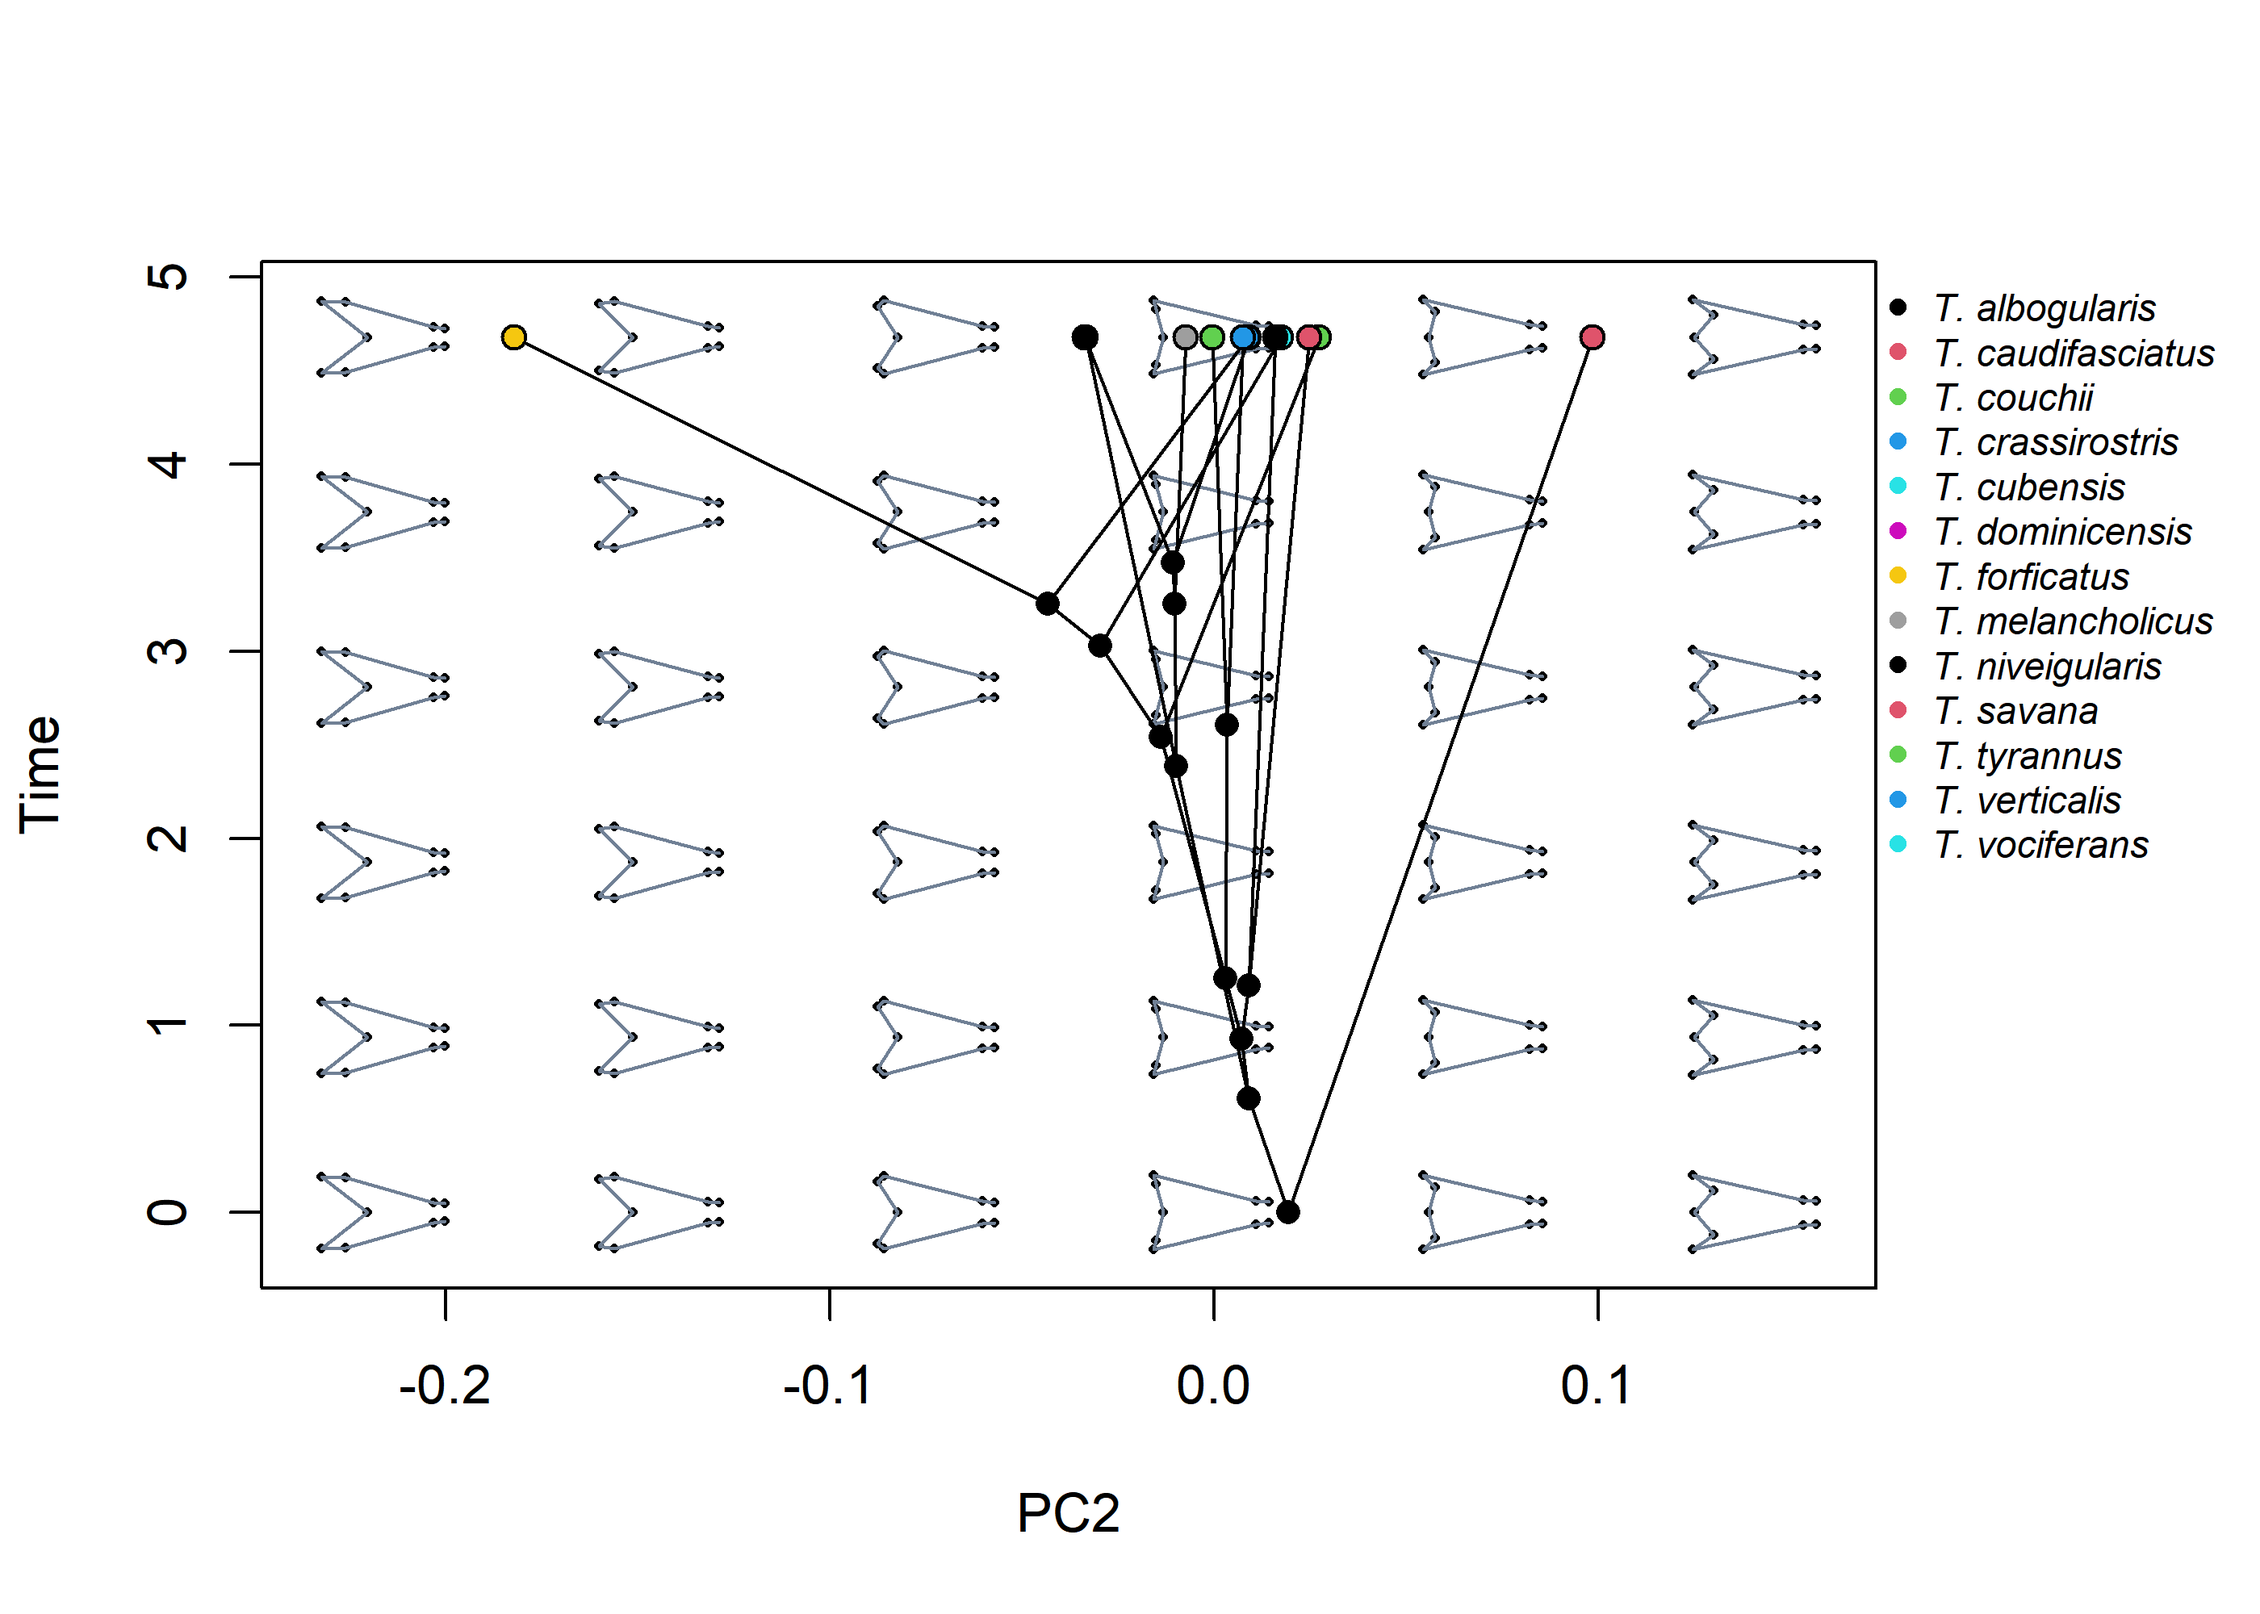
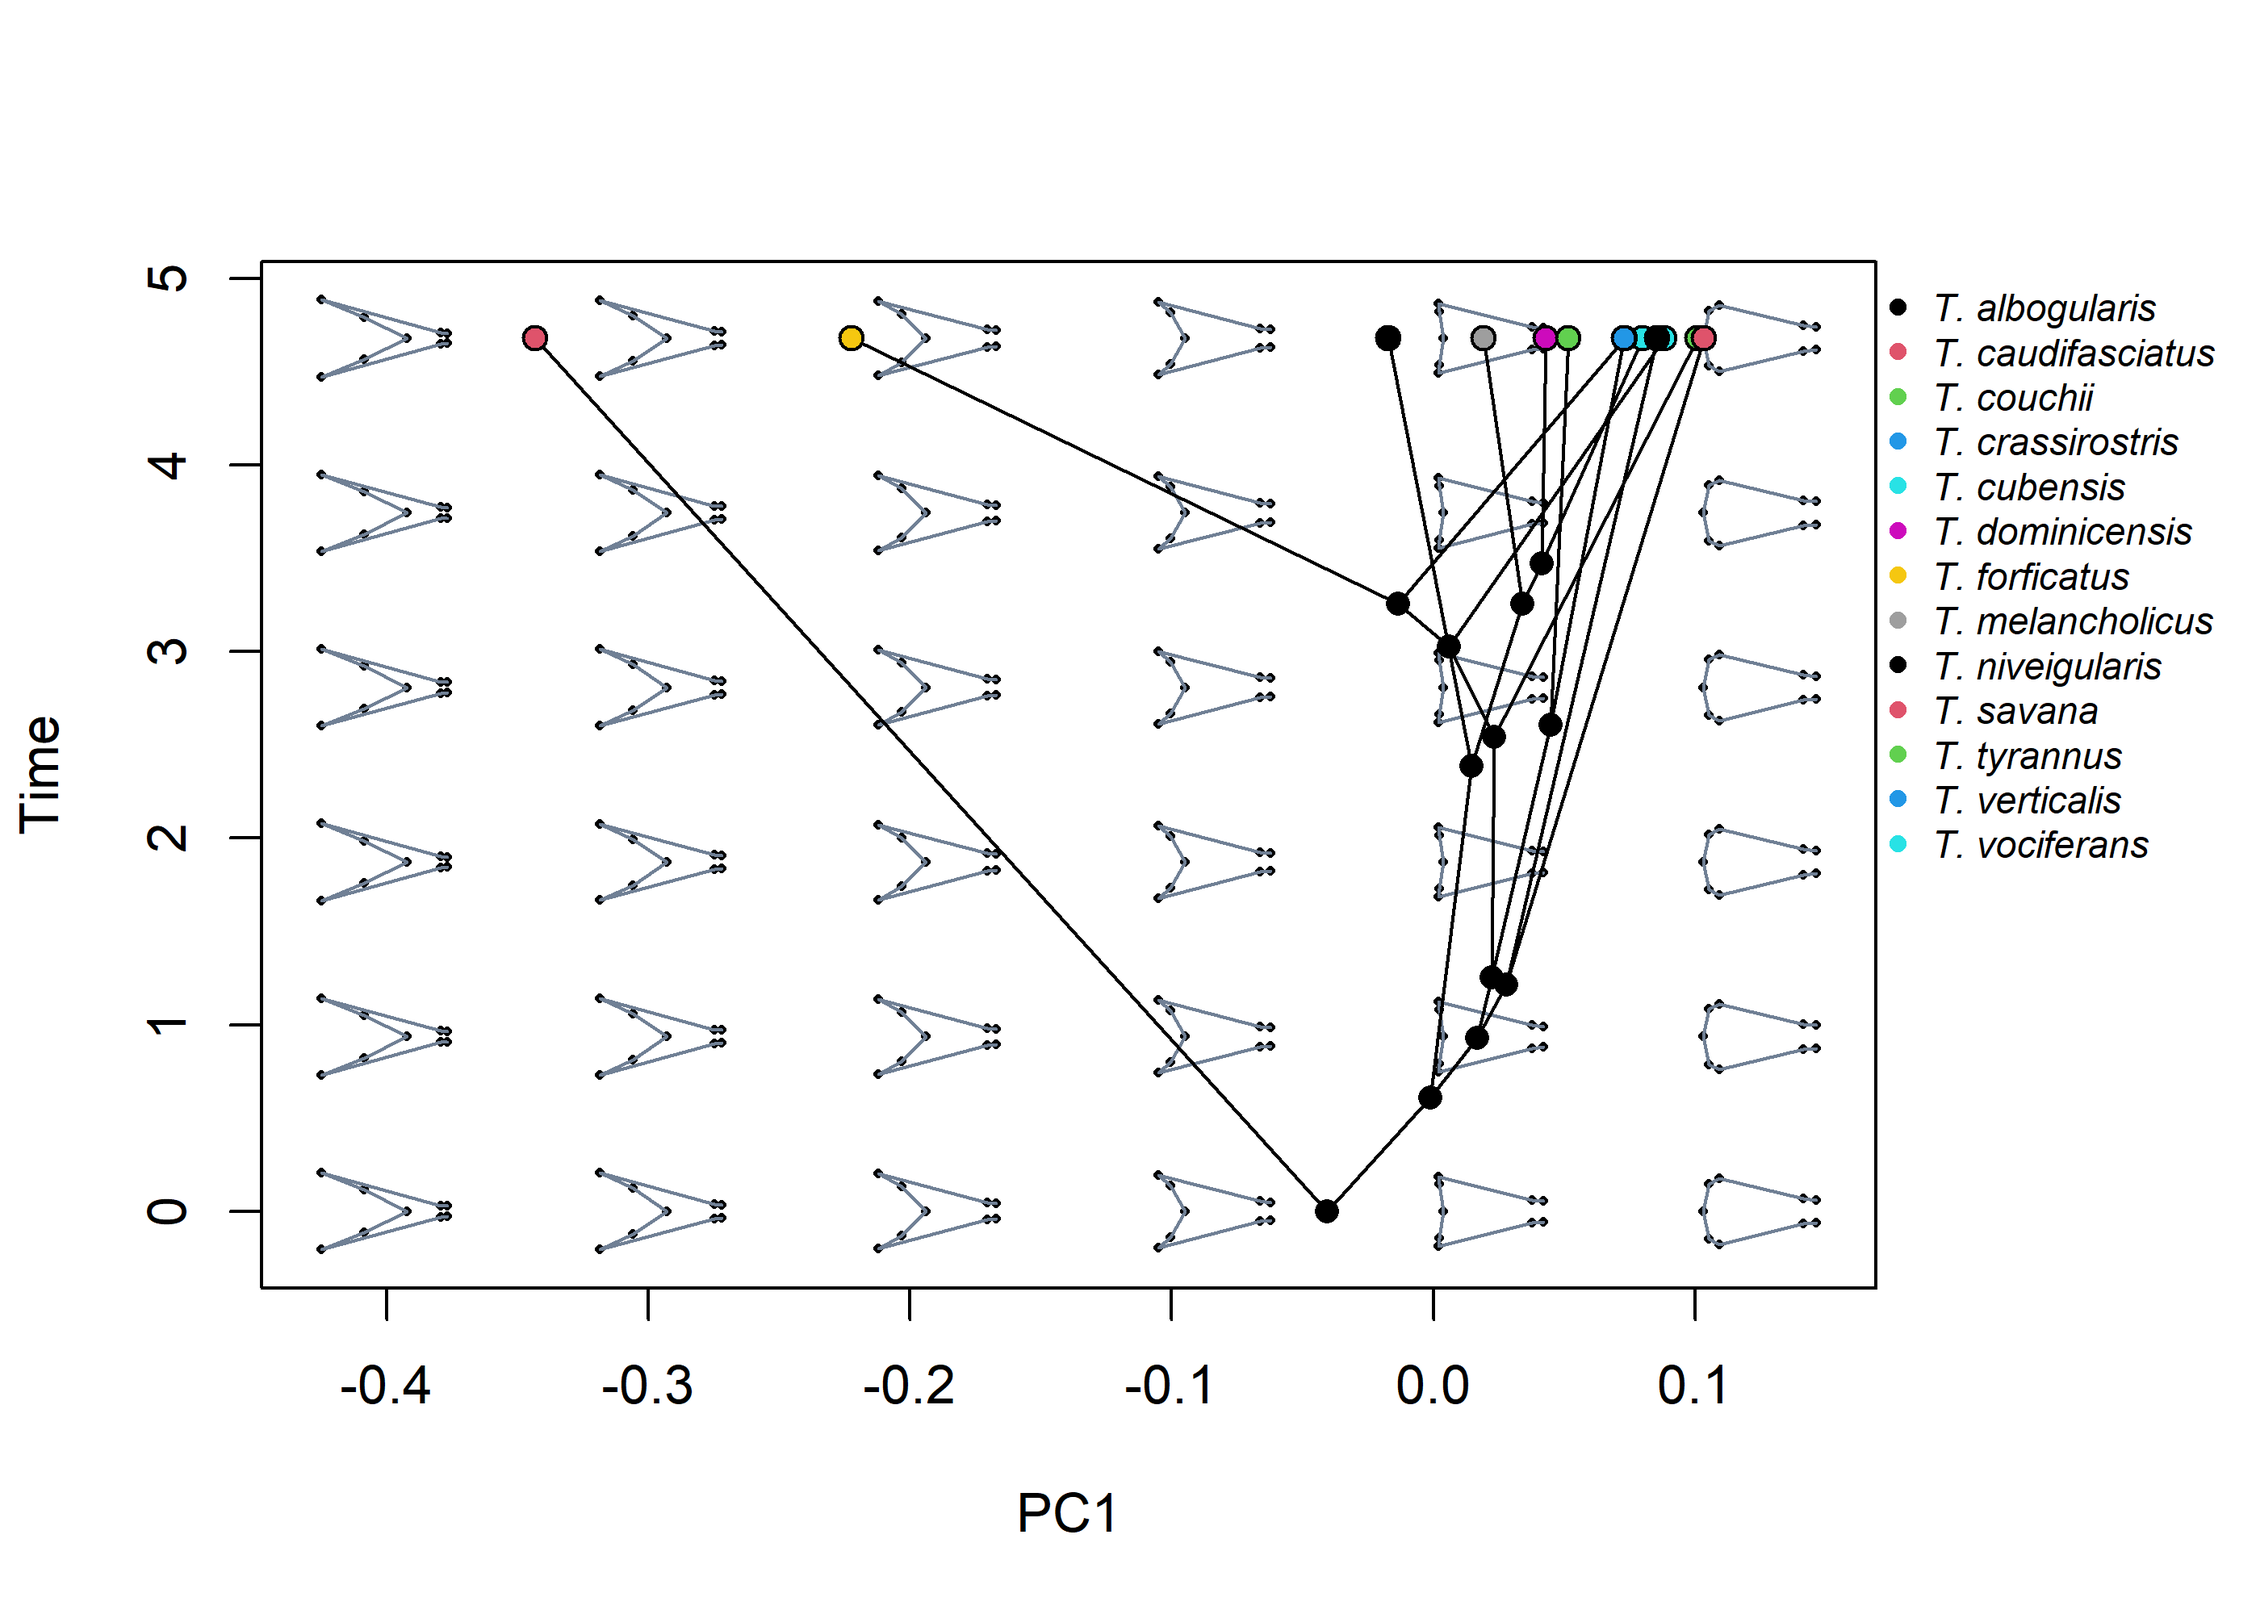
Quick readme update

diff --git a/README.md b/README.md
@@ -49,7 +49,10 @@ belonging to 13 species of the genus *Tyrannus*.
 ``` r
 library(morphospace)
 library(geomorph)
+library(Morpho)
+library(Momocs)
 library(magrittr)
+library(rgl)
 ```
 
 ``` r
@@ -109,14 +112,14 @@ legend("topright", inset = c(-0.22, 0), legend = levels(spp),
 
 <img src="man/figures/README-unnamed-chunk-4-1.png" width="100%" />
 
-Ordination axes can be also combined with a phylogenetic tree to create
+Or ordination axes could be combined with a phylogenetic tree to create
 a phenogram:
 
 ``` r
 # Plot vertical phenogram using PC2, add a legend
 par(mar = c(5.1, 4.1, 4.1, 6), xpd = TRUE)
 
-plot_mspace(msp, y = phy, axes = 2, nh = 6, nv = 6, cex.ldm = 4, 
+plot_mspace(msp, y = phy, axes = 1, nh = 6, nv = 6, cex.ldm = 4, 
             col.groups = 1:nlevels(spp), ylab = "Time")
 legend("topright", inset = c(-0.22, 0), legend = levels(spp), 
        cex = 0.7, pch = 16, col = 1:nlevels(spp), bty = "n", text.font = 3)
@@ -124,12 +127,58 @@ legend("topright", inset = c(-0.22, 0), legend = levels(spp),
 
 <img src="man/figures/README-unnamed-chunk-5-1.png" width="100%" />
 
-`morphospace` can handle elliptic Fourier coefficients and 3D landmark
-data, perform some useful shape operations, and use TPS interpolation of
-curves/meshes to improve visualizations. It also supports a variety of
-multivariate methods (bgPCA, phylogenetic PCA, PLS, phylogenetic PLS) to
-produce ordinations. For these and other options and details, go to
-[General
+`morphospace` can also handle closed outlines (in the form of elliptic
+Fourier coefficients) and 3D landmark data, as shown below briefly using
+the `shells` and `shells3D`data sets:
+
+``` r
+# Load data
+data("shells")
+
+shapes <- shells$shapes
+spp <- shells$data$species
+
+# Generate morphospace
+mspace(shapes, mag = 1, nh = 5, nv = 4, bg.model = "light gray") %>%
+  proj_shapes(shapes = shapes, col = spp) %>%
+  proj_groups(shapes = shapes, groups = spp)
+```
+
+<img src="man/figures/README-unnamed-chunk-6-1.png" width="100%" />
+
+``` r
+# Load data
+data("shells3D")
+
+shapes <- shells3D$shapes
+spp <- shells3D$data$species
+mesh_meanspec <- shells3D$mesh_meanspec
+
+# Generate surface mesh template
+meanspec_shape <- shapes[,,findMeanSpec(shapes)]
+meanmesh <- tps3d(x = mesh_meanspec, 
+                  refmat = meanspec_shape, 
+                  tarmat = consensus(shapes))
+
+# Generate morphospace
+mspace(shapes, mag = 1, bg.model = "gray", cex.ldm = 0, template = meanmesh, 
+       adj_frame = c(0.9, 0.85)) %>%
+  proj_shapes(shapes = shapes, col = spp, pch = 16) %>%
+  proj_groups(shapes = shapes, groups = spp)
+#> Preparing for snapshot: rotate mean shape to the desired orientation
+#>  (don't close or minimize the rgl device).Press <Enter> in the console to continue:
+#> This will take a minute...
+#> DONE.
+```
+
+<img src="man/figures/README-unnamed-chunk-8-1.png" width="100%" />
+
+Aside from working with these types of morphometric data, `morphospace`
+provides functions to perform some useful shape operations, use TPS
+interpolation of curves/meshes to improve visualizations, and supports a
+variety of multivariate methods (bgPCA, phylogenetic PCA, PLS,
+phylogenetic PLS) to produce ordinations. For these and other options
+and details, go to [General
 usage](https://millacarmona.github.io/morphospace/articles/General-usage.html)
 and [Worked
 examples](https://millacarmona.github.io/morphospace/articles/Worked-examples.html).
